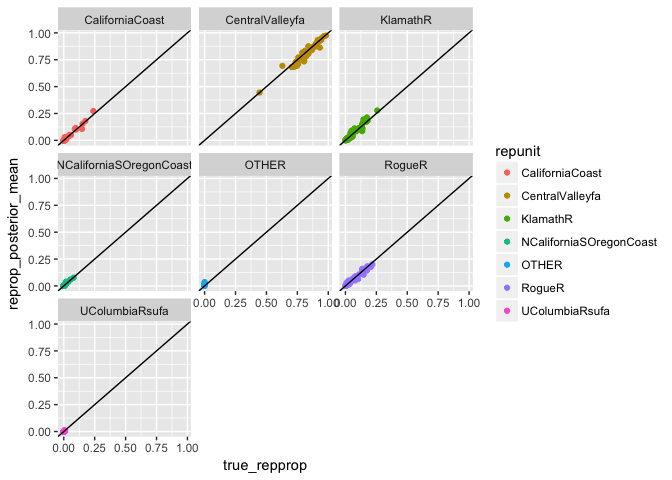
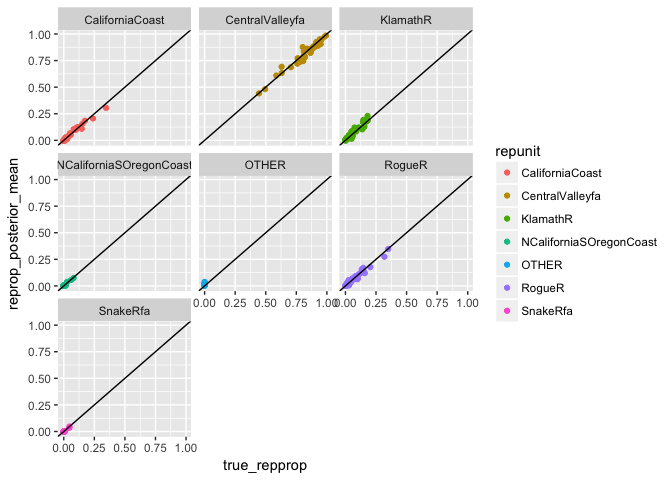
Re-ran README with small updates.

diff --git a/README.md b/README.md
@@ -1,7 +1,7 @@
 rubias --- genetic stock identification (GSI) in the tidyverse
 ==============================================================
 ================
-18 December, 2017
+11 January, 2018
 
 -   [Input Data](#input-data)
     -   [An example reference data file](#an-example-reference-data-file)
@@ -24,7 +24,7 @@ rubias --- genetic stock identification (GSI) in the tidyverse
 -   [References](#references)
 
 <!-- README.md is generated from README.Rmd. Please edit that file -->
-[![DOI](https://zenodo.org/badge/63456523.svg)](https://zenodo.org/badge/latestdoi/63456523)
+[![DOI](https://zenodo.org/badge/63456523.svg)](https://zenodo.org/badge/latestdoi/63456523) [![Project Status: Active – The project has reached a stable, usable state and is being actively developed.](http://www.repostatus.org/badges/latest/active.svg)](http://www.repostatus.org/#active) [![CRAN\_Status\_Badge](http://www.r-pkg.org/badges/version/rubias)](https://cran.r-project.org/package=rubias)
 
 This is an R package for performing genetic stock identification (GSI) and associated tasks. Additionally, it includes a method designed to diagnose and correct a bias recently documented in genetic stock identification. The bias occurs when mixture proportion estimates are desired for groups of populations (reporting units) and the number of populations within each reporting unit are uneven.
 
@@ -102,20 +102,20 @@ This is done with the `infer_mixture` function. In the example data `chinook_mix
 mix_est <- infer_mixture(reference = chinook, 
                          mixture = chinook_mix, 
                          gen_start_col = 5)
-#> Collating data; compiling reference allele frequencies, etc.   time: 2.28 seconds
-#> Computing reference locus specific means and variances for computing mixture z-scores   time: 0.31 seconds
+#> Collating data; compiling reference allele frequencies, etc.   time: 2.25 seconds
+#> Computing reference locus specific means and variances for computing mixture z-scores   time: 0.27 seconds
 #> Working on mixture collection: rec2 with 772 individuals
-#>   calculating log-likelihoods of the mixture individuals.   time: 0.13 seconds
-#>   performing 100 burn-in and 2000 more sweeps of method "MCMC"   time: 0.64 seconds
+#>   calculating log-likelihoods of the mixture individuals.   time: 0.11 seconds
+#>   performing 100 burn-in and 2000 more sweeps of method "MCMC"   time: 0.63 seconds
 #>   tidying output into a tibble.   time: 0.13 seconds
 #> Working on mixture collection: rec1 with 743 individuals
 #>   calculating log-likelihoods of the mixture individuals.   time: 0.11 seconds
-#>   performing 100 burn-in and 2000 more sweeps of method "MCMC"   time: 0.63 seconds
-#>   tidying output into a tibble.   time: 0.12 seconds
+#>   performing 100 burn-in and 2000 more sweeps of method "MCMC"   time: 0.61 seconds
+#>   tidying output into a tibble.   time: 0.13 seconds
 #> Working on mixture collection: rec3 with 741 individuals
 #>   calculating log-likelihoods of the mixture individuals.   time: 0.12 seconds
-#>   performing 100 burn-in and 2000 more sweeps of method "MCMC"   time: 0.62 seconds
-#>   tidying output into a tibble.   time: 0.11 seconds
+#>   performing 100 burn-in and 2000 more sweeps of method "MCMC"   time: 0.59 seconds
+#>   tidying output into a tibble.   time: 0.12 seconds
 ```
 
 The result comes back as a list of four tidy data frames:
@@ -133,23 +133,23 @@ lapply(mix_est, head)
 #> # A tibble: 6 x 4
 #>   mixture_collection         repunit           collection           pi
 #>                <chr>           <chr>                <chr>        <dbl>
-#> 1               rec2 CentralValleyfa         Feather_H_sp 7.549900e-02
-#> 2               rec2 CentralValleysp          Butte_Cr_Sp 2.475748e-05
-#> 3               rec2 CentralValleysp           Mill_Cr_sp 5.416542e-05
-#> 4               rec2 CentralValleysp           Deer_Cr_sp 3.885431e-05
-#> 5               rec2 CentralValleysp UpperSacramento_R_sp 1.105380e-04
-#> 6               rec2 CentralValleyfa         Feather_H_fa 1.562998e-01
+#> 1               rec2 CentralValleyfa         Feather_H_sp 8.147860e-02
+#> 2               rec2 CentralValleysp          Butte_Cr_Sp 3.059869e-05
+#> 3               rec2 CentralValleysp           Mill_Cr_sp 3.827739e-05
+#> 4               rec2 CentralValleysp           Deer_Cr_sp 3.157464e-05
+#> 5               rec2 CentralValleysp UpperSacramento_R_sp 2.242539e-04
+#> 6               rec2 CentralValleyfa         Feather_H_fa 1.482869e-01
 #> 
 #> $indiv_posteriors
 #> # A tibble: 6 x 10
 #>   mixture_collection   indiv         repunit     collection         PofZ
 #>                <chr>   <chr>           <chr>          <chr>        <dbl>
-#> 1               rec2 T124711 CentralValleyfa   Feather_H_sp 1.735183e-28
-#> 2               rec2 T124711 CentralValleyfa   Feather_H_fa 1.030479e-27
-#> 3               rec2 T124711 CentralValleyfa    Butte_Cr_fa 1.537401e-24
-#> 4               rec2 T124711 CentralValleyfa     Mill_Cr_fa 1.810530e-29
-#> 5               rec2 T124711 CentralValleyfa     Deer_Cr_fa 2.616378e-28
-#> 6               rec2 T124711 CentralValleyfa Mokelumne_R_fa 1.877435e-27
+#> 1               rec2 T124711 CentralValleyfa   Feather_H_sp 1.876166e-28
+#> 2               rec2 T124711 CentralValleyfa   Feather_H_fa 9.811766e-28
+#> 3               rec2 T124711 CentralValleyfa    Butte_Cr_fa 1.552351e-24
+#> 4               rec2 T124711 CentralValleyfa     Mill_Cr_fa 1.619707e-30
+#> 5               rec2 T124711 CentralValleyfa     Deer_Cr_fa 2.458184e-28
+#> 6               rec2 T124711 CentralValleyfa Mokelumne_R_fa 1.857571e-27
 #> # ... with 5 more variables: log_likelihood <dbl>, z_score <dbl>,
 #> #   n_non_miss_loci <dbl>, n_miss_loci <dbl>, missing_loci <list>
 #> 
@@ -235,12 +235,12 @@ top6_cis
 #> # A tibble: 6 x 3
 #>                   repunit         loCI       hiCI
 #>                     <chr>        <dbl>      <dbl>
-#> 1         CaliforniaCoast 1.813367e-02 0.04359228
-#> 2         CentralValleyfa 7.902512e-01 0.84657520
-#> 3                KlamathR 4.989110e-02 0.08669630
-#> 4 NCaliforniaSOregonCoast 3.206421e-03 0.01790917
-#> 5                  RogueR 4.509500e-02 0.08088104
-#> 6          UColumbiaRsufa 1.449912e-16 0.01238944
+#> 1         CaliforniaCoast 1.888879e-02 0.04282444
+#> 2         CentralValleyfa 7.904000e-01 0.84790580
+#> 3                KlamathR 4.929350e-02 0.08687001
+#> 4 NCaliforniaSOregonCoast 3.090083e-03 0.01854348
+#> 5                  RogueR 4.338147e-02 0.07979899
+#> 6                SnakeRfa 2.861728e-76 0.01189913
 ```
 
 Assessing whether individuals are not from any of the reference populations
@@ -423,19 +423,19 @@ top6
 #> # Groups:   mixture_collection [1]
 #>   mixture_collection                 repunit     repprop
 #>                <chr>                   <chr>       <dbl>
-#> 1               rec1         CentralValleyfa 0.820476740
-#> 2               rec1                KlamathR 0.066985471
-#> 3               rec1                  RogueR 0.061915444
-#> 4               rec1         CaliforniaCoast 0.029904244
-#> 5               rec1 NCaliforniaSOregonCoast 0.009034470
-#> 6               rec1          UColumbiaRsufa 0.004200277
+#> 1               rec1         CentralValleyfa 0.820302524
+#> 2               rec1                KlamathR 0.067293729
+#> 3               rec1                  RogueR 0.060462356
+#> 4               rec1         CaliforniaCoast 0.029738819
+#> 5               rec1 NCaliforniaSOregonCoast 0.009308472
+#> 6               rec1                SnakeRfa 0.003995977
 ```
 
 We could, if we put those `repprop` values into a `ppn` column, simulate mixtures with exactly those proportions. Or if we wanted to simulate exact numbers of fish in a sample of 346 fish, we could get those values like this:
 
 ``` r
 round(top6$repprop * 350)
-#> [1] 287  23  22  10   3   1
+#> [1] 287  24  21  10   3   1
 ```
 
 and then put them in a `cnts` column.
@@ -452,12 +452,12 @@ arep
 #> # A tibble: 6 x 2
 #>                   repunit  dirichlet
 #>                     <chr>      <dbl>
-#> 1         CentralValleyfa 8.20476740
-#> 2                KlamathR 0.66985471
-#> 3                  RogueR 0.61915444
-#> 4         CaliforniaCoast 0.29904244
-#> 5 NCaliforniaSOregonCoast 0.09034470
-#> 6          UColumbiaRsufa 0.04200277
+#> 1         CentralValleyfa 8.20302524
+#> 2                KlamathR 0.67293729
+#> 3                  RogueR 0.60462356
+#> 4         CaliforniaCoast 0.29738819
+#> 5 NCaliforniaSOregonCoast 0.09308472
+#> 6                SnakeRfa 0.03995977
 ```
 
 Let's do some simulations with those repunit parameters. By default, if we don't specify anything extra for the *collections*, they get dirichlet parameters of 1.5.
@@ -645,12 +645,12 @@ arep
 #> # A tibble: 6 x 2
 #>                   repunit  dirichlet
 #>                     <chr>      <dbl>
-#> 1         CentralValleyfa 8.20476740
-#> 2                KlamathR 0.66985471
-#> 3                  RogueR 0.61915444
-#> 4         CaliforniaCoast 0.29904244
-#> 5 NCaliforniaSOregonCoast 0.09034470
-#> 6          UColumbiaRsufa 0.04200277
+#> 1         CentralValleyfa 8.20302524
+#> 2                KlamathR 0.67293729
+#> 3                  RogueR 0.60462356
+#> 4         CaliforniaCoast 0.29738819
+#> 5 NCaliforniaSOregonCoast 0.09308472
+#> 6                SnakeRfa 0.03995977
 ```
 
 But, now, let's say that within reporting unit we want specific weights for different collections. Then we could specify those, for example, like this:
@@ -690,30 +690,27 @@ chin_sims_sub_ppn %>%
          fract_within = mean_pi / repunit_mean_pi) %>%
   mutate(fract_within = ifelse(fract_within < 1e-06, 0, fract_within))  %>% # anything less than 1 in a million gets called 0
   filter(repunit_mean_pi > 0.0)
-#> # A tibble: 20 x 5
+#> # A tibble: 17 x 5
 #> # Groups:   repunit [6]
 #>                    repunit      collection      mean_pi repunit_mean_pi
 #>                      <chr>           <chr>        <dbl>           <dbl>
-#>  1         CaliforniaCoast           Eel_R 3.450969e-03      0.03450969
-#>  2         CaliforniaCoast       Russian_R 3.105872e-02      0.03450969
-#>  3         CentralValleyfa       Battle_Cr 8.257985e-08      0.82579896
-#>  4         CentralValleyfa     Butte_Cr_fa 5.780589e-01      0.82579896
-#>  5         CentralValleyfa      Deer_Cr_fa 8.257985e-08      0.82579896
-#>  6         CentralValleyfa    Feather_H_fa 8.257985e-08      0.82579896
-#>  7         CentralValleyfa    Feather_H_sp 2.477395e-01      0.82579896
-#>  8         CentralValleyfa      Mill_Cr_fa 8.257985e-08      0.82579896
-#>  9         CentralValleyfa  Mokelumne_R_fa 8.257985e-08      0.82579896
-#> 10         CentralValleyfa Sacramento_R_lf 8.257985e-08      0.82579896
-#> 11                KlamathR  Klamath_IGH_fa 2.878091e-02      0.05756182
-#> 12                KlamathR    Trinity_H_sp 2.878091e-02      0.05756182
-#> 13 NCaliforniaSOregonCoast        Chetco_R 5.680403e-03      0.01136081
-#> 14 NCaliforniaSOregonCoast         Smith_R 5.680403e-03      0.01136081
-#> 15                  RogueR    Applegate_Cr 3.030309e-02      0.06060618
-#> 16                  RogueR   Cole_Rivers_H 3.030309e-02      0.06060618
-#> 17          UColumbiaRsufa   Hanford_Reach 2.540637e-03      0.01016255
-#> 18          UColumbiaRsufa  PriestRapids_H 2.540637e-03      0.01016255
-#> 19          UColumbiaRsufa         Wells_H 2.540637e-03      0.01016255
-#> 20          UColumbiaRsufa     Wenatchee_R 2.540637e-03      0.01016255
+#>  1         CaliforniaCoast           Eel_R 3.589717e-03      0.03589717
+#>  2         CaliforniaCoast       Russian_R 3.230745e-02      0.03589717
+#>  3         CentralValleyfa       Battle_Cr 8.241639e-08      0.82416435
+#>  4         CentralValleyfa     Butte_Cr_fa 5.769147e-01      0.82416435
+#>  5         CentralValleyfa      Deer_Cr_fa 8.241639e-08      0.82416435
+#>  6         CentralValleyfa    Feather_H_fa 8.241639e-08      0.82416435
+#>  7         CentralValleyfa    Feather_H_sp 2.472492e-01      0.82416435
+#>  8         CentralValleyfa      Mill_Cr_fa 8.241639e-08      0.82416435
+#>  9         CentralValleyfa  Mokelumne_R_fa 8.241639e-08      0.82416435
+#> 10         CentralValleyfa Sacramento_R_lf 8.241639e-08      0.82416435
+#> 11                KlamathR  Klamath_IGH_fa 3.136903e-02      0.06273806
+#> 12                KlamathR    Trinity_H_sp 3.136903e-02      0.06273806
+#> 13 NCaliforniaSOregonCoast        Chetco_R 5.836804e-03      0.01167361
+#> 14 NCaliforniaSOregonCoast         Smith_R 5.836804e-03      0.01167361
+#> 15                  RogueR    Applegate_Cr 2.776480e-02      0.05552961
+#> 16                  RogueR   Cole_Rivers_H 2.776480e-02      0.05552961
+#> 17                SnakeRfa   Lyons_Ferry_H 9.997210e-03      0.00999721
 #> # ... with 1 more variables: fract_within <dbl>
 ```
 
@@ -726,7 +723,7 @@ In the fisheries world, "100% simulations" have been a staple. In these simulati
 arep$repunit
 #> [1] "CentralValleyfa"         "KlamathR"               
 #> [3] "RogueR"                  "CaliforniaCoast"        
-#> [5] "NCaliforniaSOregonCoast" "UColumbiaRsufa"
+#> [5] "NCaliforniaSOregonCoast" "SnakeRfa"
 ```
 
 We will let the collections within them just be drawn from a dirichlet distribution with parameter 10 (so, pretty close to equal proportions).
@@ -777,7 +774,7 @@ repu_hundy_results <- assess_reference_loo(reference = chinook,
 #> Doing LOO simulations rep 3 of 5
 #> Doing LOO simulations rep 4 of 5
 #> Doing LOO simulations rep 5 of 5
-#> ++++ Starting in on repunit_scenario All-UColumbiaRsufa with collection scenario 1 ++++
+#> ++++ Starting in on repunit_scenario All-SnakeRfa with collection scenario 1 ++++
 #> Doing LOO simulations rep 1 of 5
 #> Doing LOO simulations rep 2 of 5
 #> Doing LOO simulations rep 3 of 5
@@ -856,23 +853,23 @@ mix_est_pb <- infer_mixture(reference = chinook,
                          mixture = chinook_mix, 
                          gen_start_col = 5,
                          method = "PB")
-#> Collating data; compiling reference allele frequencies, etc.   time: 1.39 seconds
-#> Computing reference locus specific means and variances for computing mixture z-scores   time: 0.31 seconds
+#> Collating data; compiling reference allele frequencies, etc.   time: 1.48 seconds
+#> Computing reference locus specific means and variances for computing mixture z-scores   time: 0.28 seconds
 #> Working on mixture collection: rec2 with 772 individuals
-#>   calculating log-likelihoods of the mixture individuals.   time: 0.13 seconds
-#>   performing 100 burn-in and 2000 more sweeps of method "MCMC"   time: 0.64 seconds
-#>   performing 100 bootstrapping rounds for method "PB"   time: 74.99 seconds
-#>   tidying output into a tibble.   time: 0.13 seconds
-#> Working on mixture collection: rec1 with 743 individuals
 #>   calculating log-likelihoods of the mixture individuals.   time: 0.12 seconds
-#>   performing 100 burn-in and 2000 more sweeps of method "MCMC"   time: 0.64 seconds
-#>   performing 100 bootstrapping rounds for method "PB"   time: 74.31 seconds
+#>   performing 100 burn-in and 2000 more sweeps of method "MCMC"   time: 0.62 seconds
+#>   performing 100 bootstrapping rounds for method "PB"   time: 73.21 seconds
+#>   tidying output into a tibble.   time: 0.12 seconds
+#> Working on mixture collection: rec1 with 743 individuals
+#>   calculating log-likelihoods of the mixture individuals.   time: 0.11 seconds
+#>   performing 100 burn-in and 2000 more sweeps of method "MCMC"   time: 0.60 seconds
+#>   performing 100 bootstrapping rounds for method "PB"   time: 70.39 seconds
 #>   tidying output into a tibble.   time: 0.13 seconds
 #> Working on mixture collection: rec3 with 741 individuals
 #>   calculating log-likelihoods of the mixture individuals.   time: 0.11 seconds
-#>   performing 100 burn-in and 2000 more sweeps of method "MCMC"   time: 0.63 seconds
-#>   performing 100 bootstrapping rounds for method "PB"   time: 72.70 seconds
-#>   tidying output into a tibble.   time: 0.12 seconds
+#>   performing 100 burn-in and 2000 more sweeps of method "MCMC"   time: 0.60 seconds
+#>   performing 100 bootstrapping rounds for method "PB"   time: 70.39 seconds
+#>   tidying output into a tibble.   time: 0.13 seconds
 ```
 
 And now we can compare the estimates, showing here the 10 most prevalent repunits, in the `rec1` fishery:
@@ -886,21 +883,6 @@ mix_est_pb$mixing_proportions %>%
   filter(mixture_collection == "rec1") %>%
   arrange(desc(repprop)) %>%
   slice(1:10)
-#> Joining, by = c("mixture_collection", "repunit")
-#> # A tibble: 10 x 4
-#>    mixture_collection                 repunit     repprop
-#>                 <chr>                   <chr>       <dbl>
-#>  1               rec1         CentralValleyfa 0.819805757
-#>  2               rec1                KlamathR 0.067744578
-#>  3               rec1                  RogueR 0.060168018
-#>  4               rec1         CaliforniaCoast 0.029746678
-#>  5               rec1 NCaliforniaSOregonCoast 0.009242693
-#>  6               rec1          UColumbiaRsufa 0.004457871
-#>  7               rec1          MidOregonCoast 0.003093241
-#>  8               rec1        MidColumbiaRtule 0.001727964
-#>  9               rec1                SnakeRfa 0.001607162
-#> 10               rec1         CentralValleysp 0.001325884
-#> # ... with 1 more variables: bs_corrected_repunit_ppn <dbl>
 ```
 
 It gives us a result that we expect: no appreciable difference, because the reporting units are already very well resolved, so we don't expect that the parametric bootstrap procedure would find any benefit in correcting them.
